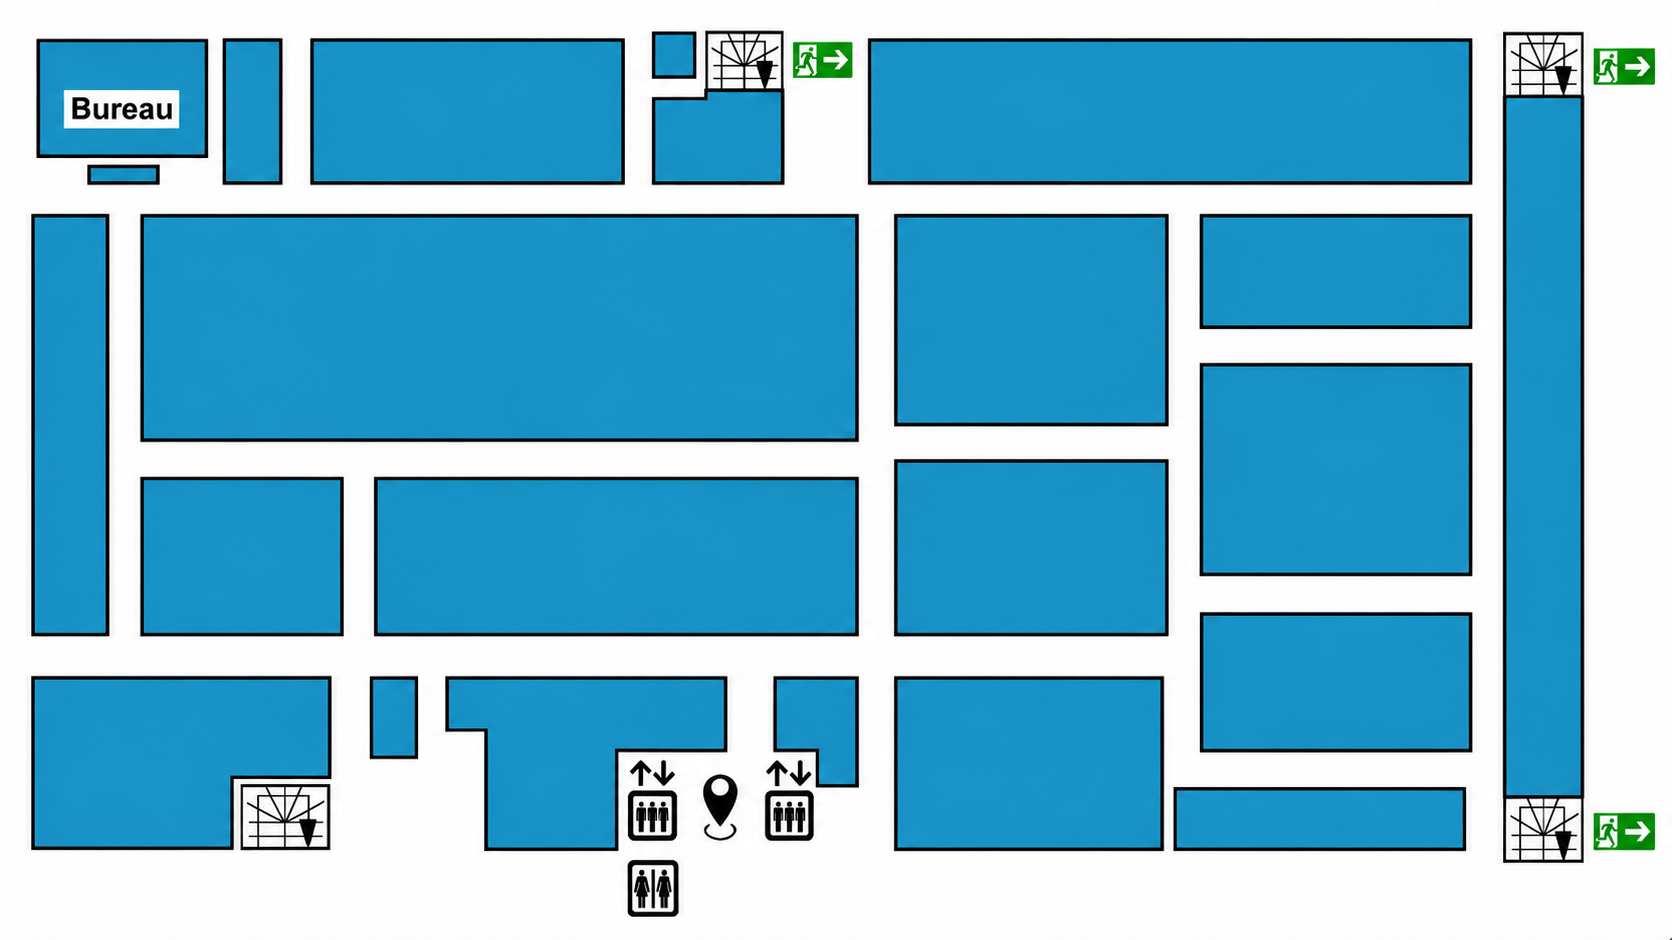
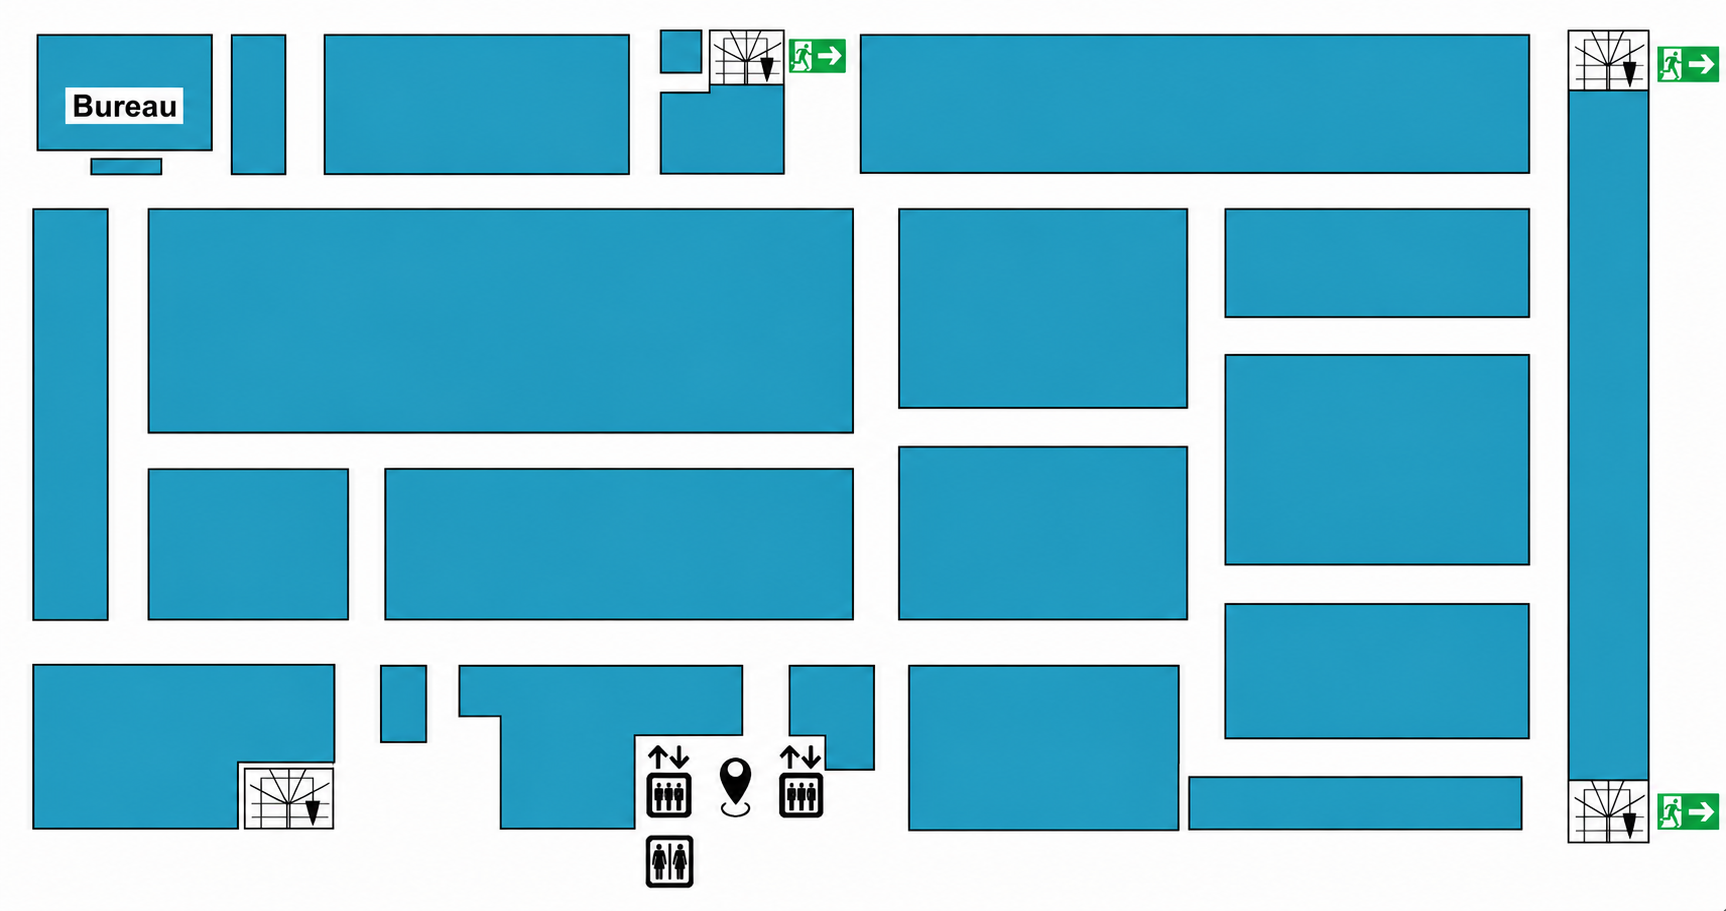
modified:   index.html 	modified:   realfloor1.png

Changed region(s): [[0.0, 0.0307, 1.0, 0.9835]]

diff --git a/index.html b/index.html
@@ -796,12 +796,12 @@
   // ── FLOOR CONFIG ──
   const FLOORS = {
     '1': {
-      img: 'properfloor1.png',
+      img: 'realfloor1.png',
       name: { en: 'Floor 1', fr: 'Étage 1' },
       waypoints: [[0.4371, 0.8092]],
     },
     '2': {
-      img: 'properfloor2.png',
+      img: 'realfloor2.png',
       name: { en: 'Floor 2', fr: 'Étage 2' },
       waypoints: [[0.4206, 0.8923]],
     },
@@ -2208,14 +2208,6 @@
     // "You Are Here" marker at start (pts[0])
     const [sx, sy] = pts[0];
     const rs = 9 * devicePixelRatio;
-    // Outer pulsing ring
-    ctx.shadowColor = 'rgba(232,25,44,0.5)';
-    ctx.shadowBlur  = 10 * devicePixelRatio;
-    ctx.strokeStyle = '#e8192c';
-    ctx.lineWidth   = 2 * devicePixelRatio;
-    ctx.beginPath();
-    ctx.arc(sx, sy, rs * 1.7, 0, Math.PI * 2);
-    ctx.stroke();
     ctx.shadowBlur = 0;
     // White filled circle
     ctx.fillStyle = '#ffffff';
@@ -2258,18 +2250,11 @@
       ctx.bezierCurveTo(ux - r * 0.4, uy - r * 0.4, ux - r, uy - pinH + r * 1.5, ux - r, uy - pinH + r);
       ctx.closePath();
       ctx.stroke();
-      // White star inside pin
+      // White circle inside pin
       ctx.fillStyle = '#ffffff';
       const cx = ux, cy = uy - pinH + r;
-      const starR = r * 0.52, starInner = starR * 0.42, points = 5;
       ctx.beginPath();
-      for (let i = 0; i < points * 2; i++) {
-        const angle = (i * Math.PI / points) - Math.PI / 2;
-        const rad = i % 2 === 0 ? starR : starInner;
-        i === 0 ? ctx.moveTo(cx + rad * Math.cos(angle), cy + rad * Math.sin(angle))
-                : ctx.lineTo(cx + rad * Math.cos(angle), cy + rad * Math.sin(angle));
-      }
-      ctx.closePath();
+      ctx.arc(cx, cy, r * 0.38, 0, Math.PI * 2);
       ctx.fill();
     }
   }
